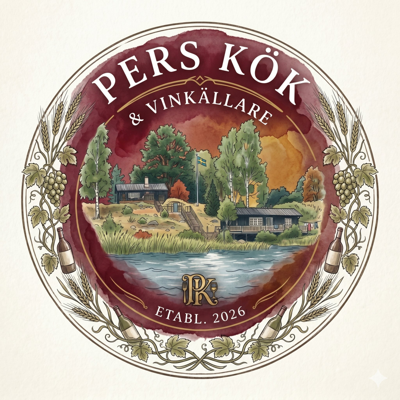
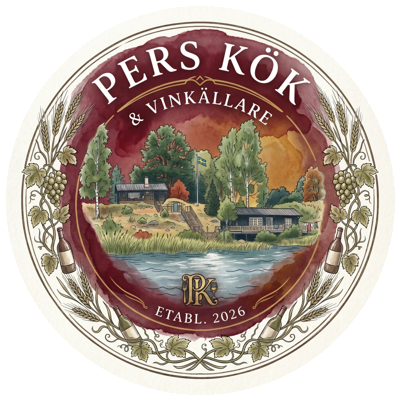
Hemsida + sociala medier: åtgärda feedback från webbexpert
1. Transparent logga (cirkulär) - tar bort vita fyrkanten, poppar mot bakgrund
2. Tydligare hero-text: 'Appen som forenklar din matlagning och vinmatchning'
3. SEO i sociala medier-texter: nyckelord forst (matapp, vinkallare, vintips),
   hashtags nedtonade enligt expertrad
4. Lade till SEO title + meta description + og-taggar pa hemsidan

diff --git a/sociala-medier/index.html b/sociala-medier/index.html
@@ -82,12 +82,12 @@
   </div>
   <div class="text-block">
     <div class="etikett">Bildtext <button class="kopiera" onclick="kop(this)">Kopiera</button></div>
-    <div class="bildtext">Det började med en frys full av vilt och en vinkällare som bara växte. Jag ville ha ordning – och bestämde mig för att bygga appen själv, tillsammans med en AI. 🍷
+    <div class="bildtext">Pers Kök &amp; Vinkällare – matappen jag byggde själv, med hjälp av AI. 🍷
 
-Idag samlar "Pers Kök &amp; Vinkällare" allt: maten, viltet, vinet och skafferiet. Inte byggt av ett techbolag – byggt av en jägare och vinälskare vid köksbordet.
+Det började med en frys full av vilt och en vinkällare som bara växte. Jag ville ha ordning på matlagningen och vinkällaren – och bestämde mig för att bygga appen själv vid köksbordet.
 
-Vem hade trott det? 😅</div>
-    <div class="hashtags">#vinkällare #hemmakock #vibecoding #byggselv #matlagning #vinintresse #jägare</div>
+Idag samlar appen allt: maten, viltet, vintipsen och skafferiet. Inte byggt av ett techbolag – byggt av en jägare och vinälskare. Vem hade trott det? 😅</div>
+    <div class="hashtags">Sökord: matapp · vinkällare · hemmakock · vibe coding   ·   #matlagning #vinintresse</div>
   </div>
 </article>
 
@@ -104,12 +104,12 @@ Vem hade trott det? 😅</div>
   </div>
   <div class="text-block">
     <div class="etikett">Bildtext <button class="kopiera" onclick="kop(this)">Kopiera</button></div>
-    <div class="bildtext">Vildsvin, älg, rådjur – allt får sin plats. Styckdetalj, fack och datum, så du alltid vet vad du har och hur länge det legat. 🦌
+    <div class="bildtext">Håll koll på viltköttet i frysen – vildsvin, älg och rådjur får sin plats med styckdetalj, fack och datum. 🦌
 
-Aldrig mer en gåtfull frusen påse utan namn. Råvaran från skogen förtjänar bättre än så.
+Med matappen Pers Kök &amp; Vinkällare vet du alltid vad du har i frysen och hur länge det legat. Aldrig mer en gåtfull frusen påse utan namn.
 
-Hur håller du koll på ditt vilt?</div>
-    <div class="hashtags">#jakt #vilt #vildsvin #frysen #frånskogtillbord #jaktmat #viltkött #svenskjakt</div>
+Råvaran från skogen förtjänar bättre. Hur håller du koll på ditt vilt?</div>
+    <div class="hashtags">Sökord: viltkött · frysförvaring · jaktmat · vildsvin   ·   #jakt #frånskogtillbord</div>
   </div>
 </article>
 
@@ -126,12 +126,12 @@ Hur håller du koll på ditt vilt?</div>
   </div>
   <div class="text-block">
     <div class="etikett">Bildtext <button class="kopiera" onclick="kop(this)">Kopiera</button></div>
-    <div class="bildtext">Druva, årgång, hyllplats – en bild på etiketten räcker. 📸🍷
+    <div class="bildtext">Digital vinkällare i fickan – fota etiketten så läser appen in vinet åt dig: druva, årgång och hyllplats. 📸🍷
 
-Jag är ganska ny i vinvärlden och lär mig hela tiden. Resorna till Frankrike, Italien och Tyskland har gett mersmak – och en källare som behöver hållas ordning på.
+Jag är ganska ny i vinvärlden och lär mig hela tiden. Resorna till Frankrike, Italien och Tyskland har gett mersmak – och en vinkällare som behöver hållas ordning på.
 
-Nu vet jag alltid vad jag har, och var det står.</div>
-    <div class="hashtags">#vin #vinkällare #wine #vinintresse #piemonte #frankrike #vinresa #winelover</div>
+Med Pers Kök &amp; Vinkällare vet jag alltid vad jag har och var det står.</div>
+    <div class="hashtags">Sökord: digital vinkällare · vintips · vinapp · vinsamling   ·   #vin #vinresa</div>
   </div>
 </article>
 
@@ -148,12 +148,12 @@ Nu vet jag alltid vad jag har, och var det står.</div>
   </div>
   <div class="text-block">
     <div class="etikett">Bildtext <button class="kopiera" onclick="kop(this)">Kopiera</button></div>
-    <div class="bildtext">"Vad blir det idag?" – den eviga frågan. 🍳
+    <div class="bildtext">Vad blir det till middag idag? Matappen Pers Kök &amp; Vinkällare har en AI-kock som ger middagstips utifrån vad du faktiskt har hemma. 🍳
 
-Min AI-kock kollar vad som finns i frysen och skafferiet, och föreslår middag av det du faktiskt har hemma. Inga extra svängar till affären.
+Kocken kollar frysen och skafferiet och föreslår en middag – inga extra svängar till affären. Och så klart: ett vintips från vinkällaren som passar till. 🍷
 
-Och så klart: ett vintips från källaren som passar till. 🍷</div>
-    <div class="hashtags">#hemmakock #middagstips #matlagning #vadblirdetidag #foodie #recept #matinspo</div>
+Slut på "vad ska vi äta?"-grubbel.</div>
+    <div class="hashtags">Sökord: middagstips · matapp · vad ska jag laga · vinmatchning   ·   #hemmakock #matinspo</div>
   </div>
 </article>
 
@@ -170,12 +170,12 @@ Och så klart: ett vintips från källaren som passar till. 🍷</div>
   </div>
   <div class="text-block">
     <div class="etikett">Bildtext <button class="kopiera" onclick="kop(this)">Kopiera</button></div>
-    <div class="bildtext">Kräftor från sjön, abborre från båten, svamp från skogen, vilt från jakten. 🦞🍄
+    <div class="bildtext">Den bästa maten börjar i naturen – kräftfiske i sjön, abborre från båten, svamp i skogen och vilt från jakten. 🦞🍄
 
-Bakom varje måltid finns en tur ut i naturen. Det är där råvaran – och glädjen – börjar. Och allt hamnar så småningom i appen, redo att bli middag.
+Bakom varje måltid finns en tur ut i naturen. Det är där råvaran – och glädjen – börjar. Och allt hamnar så småningom i matappen Pers Kök &amp; Vinkällare, redo att bli middag.
 
 Augustinätter vid kräftburarna är svårslaget. 🌙</div>
-    <div class="hashtags">#kräftfiske #kräftor #fiske #svampplockning #kantareller #närodlat #frånnaturen #sjöliv</div>
+    <div class="hashtags">Sökord: kräftfiske · närodlat · svampplockning · råvara från naturen   ·   #fiske #kräftor</div>
   </div>
 </article>
 

diff --git a/hemsida-prototyp/index.html b/hemsida-prototyp/index.html
@@ -3,7 +3,11 @@
 <head>
 <meta charset="UTF-8">
 <meta name="viewport" content="width=device-width, initial-scale=1.0">
-<title>Pers Kök &amp; Vinkällare</title>
+<title>Pers Kök &amp; Vinkällare – appen för matlagning, vintips och vinkällare</title>
+<meta name="description" content="Pers Kök & Vinkällare är matappen som förenklar din matlagning och vinmatchning. Håll koll på vinkällaren, viltet i frysen och skafferiet – och få middagstips av en AI-kock som vet vad du har hemma.">
+<meta property="og:title" content="Pers Kök & Vinkällare – matapp för matlagning och vintips">
+<meta property="og:description" content="Appen som samlar ditt kök: vinkällare, frys, skafferi och en AI-kock. Matlagning och vinmatchning på ett ställe.">
+<meta property="og:type" content="website">
 <link rel="preconnect" href="https://fonts.googleapis.com">
 <link rel="preconnect" href="https://fonts.gstatic.com" crossorigin>
 <link href="https://fonts.googleapis.com/css2?family=Fraunces:ital,opsz,wght@0,9..144,400;0,9..144,500;0,9..144,600;1,9..144,400&family=Inter:wght@400;500;600&display=swap" rel="stylesheet">
@@ -128,7 +132,7 @@
     <img src="bilder/logga.png" alt="Pers Kök &amp; Vinkällare" class="hero-logga">
     <div class="eyebrow">Kök · Vin · Jakt · Fiske · Skog</div>
     <h1>Välkommen hem</h1>
-    <p class="ingress">Allt i ett kök, samlat på ett ställe. Maten du lagar, viltet i frysen, vinet i källaren – och hela livet runtomkring som gör maten värd att laga.</p>
+    <p class="ingress">Appen som förenklar din matlagning och vinmatchning – allt i ett kök, samlat på ett ställe. Maten du lagar, viltet i frysen, vinet i källaren, och en AI-kock som vet vad du har hemma.</p>
     <a href="#delar" class="knapp">Utforska</a>
     <a href="#passioner" class="knapp knapp-guld">Det här är jag</a>
   </div>